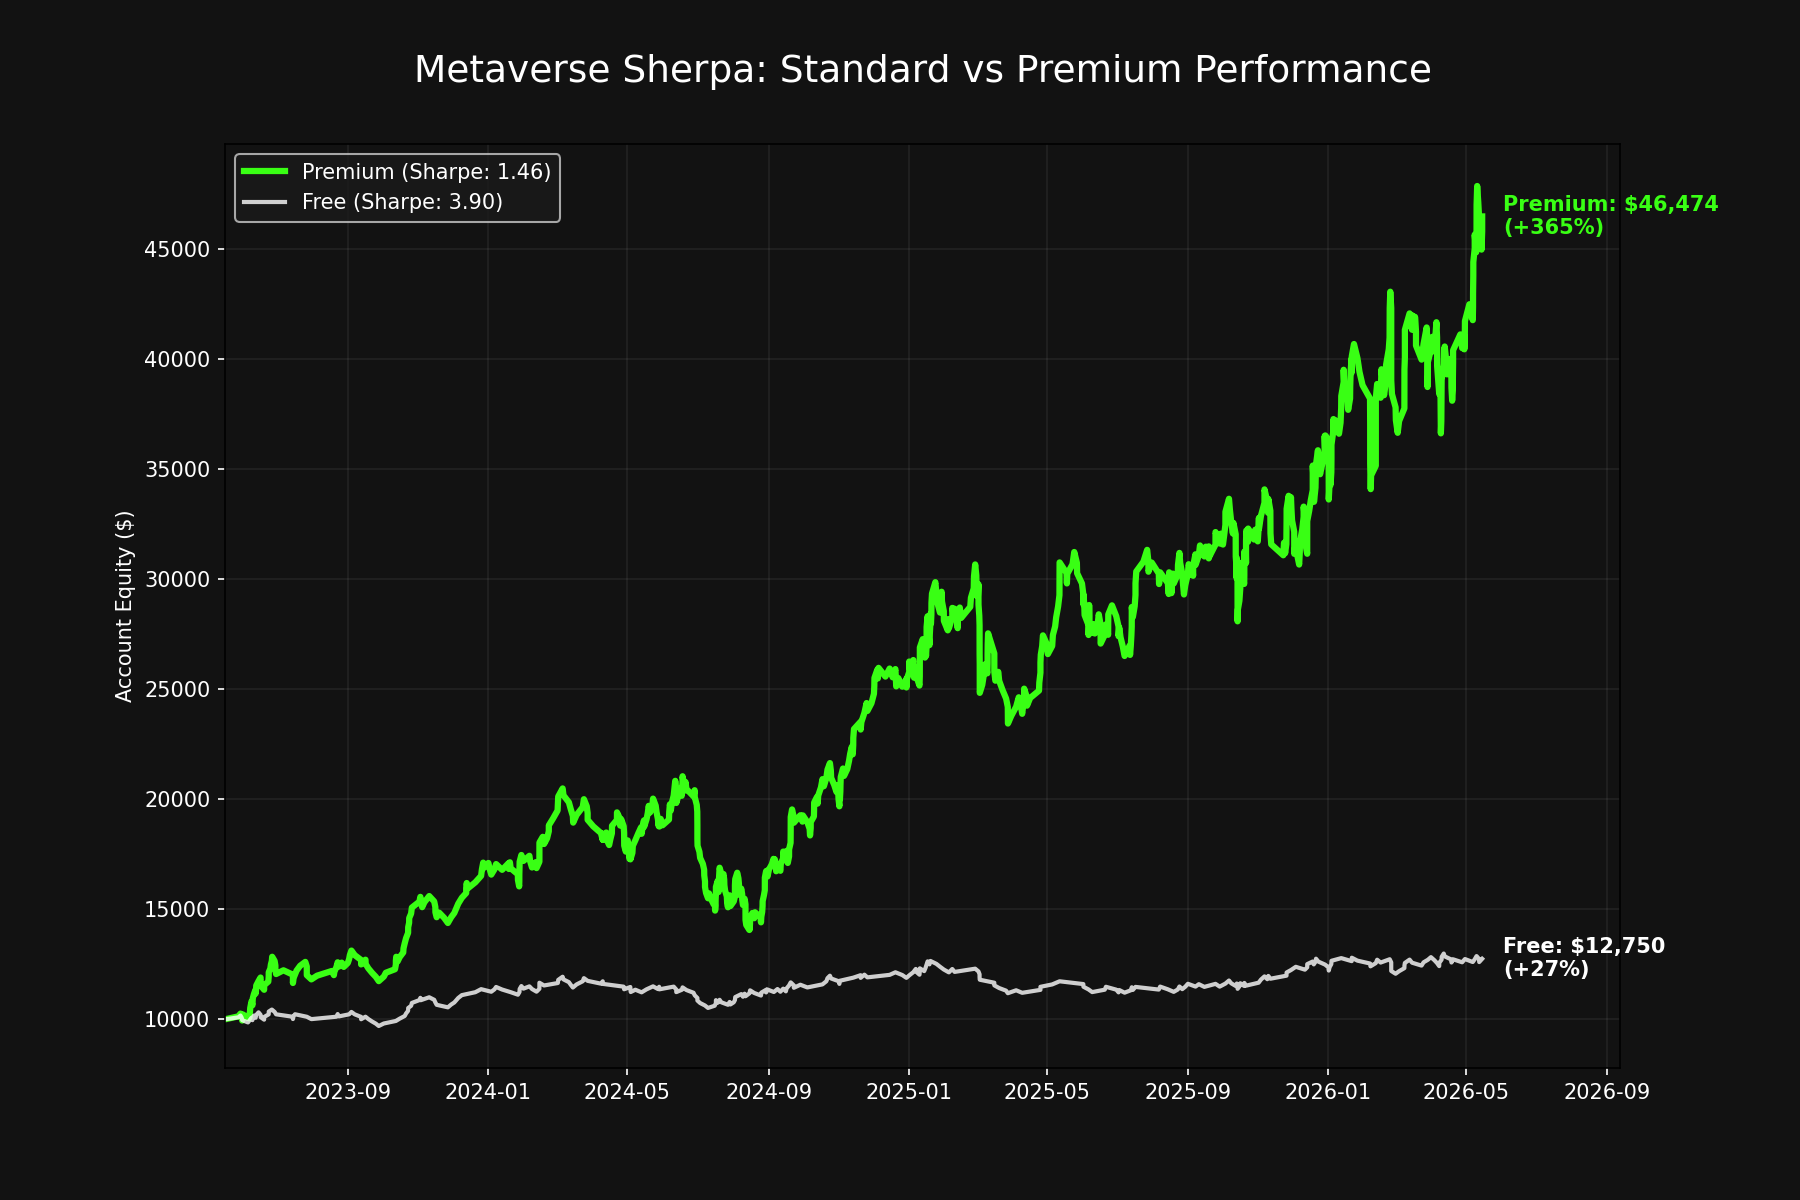
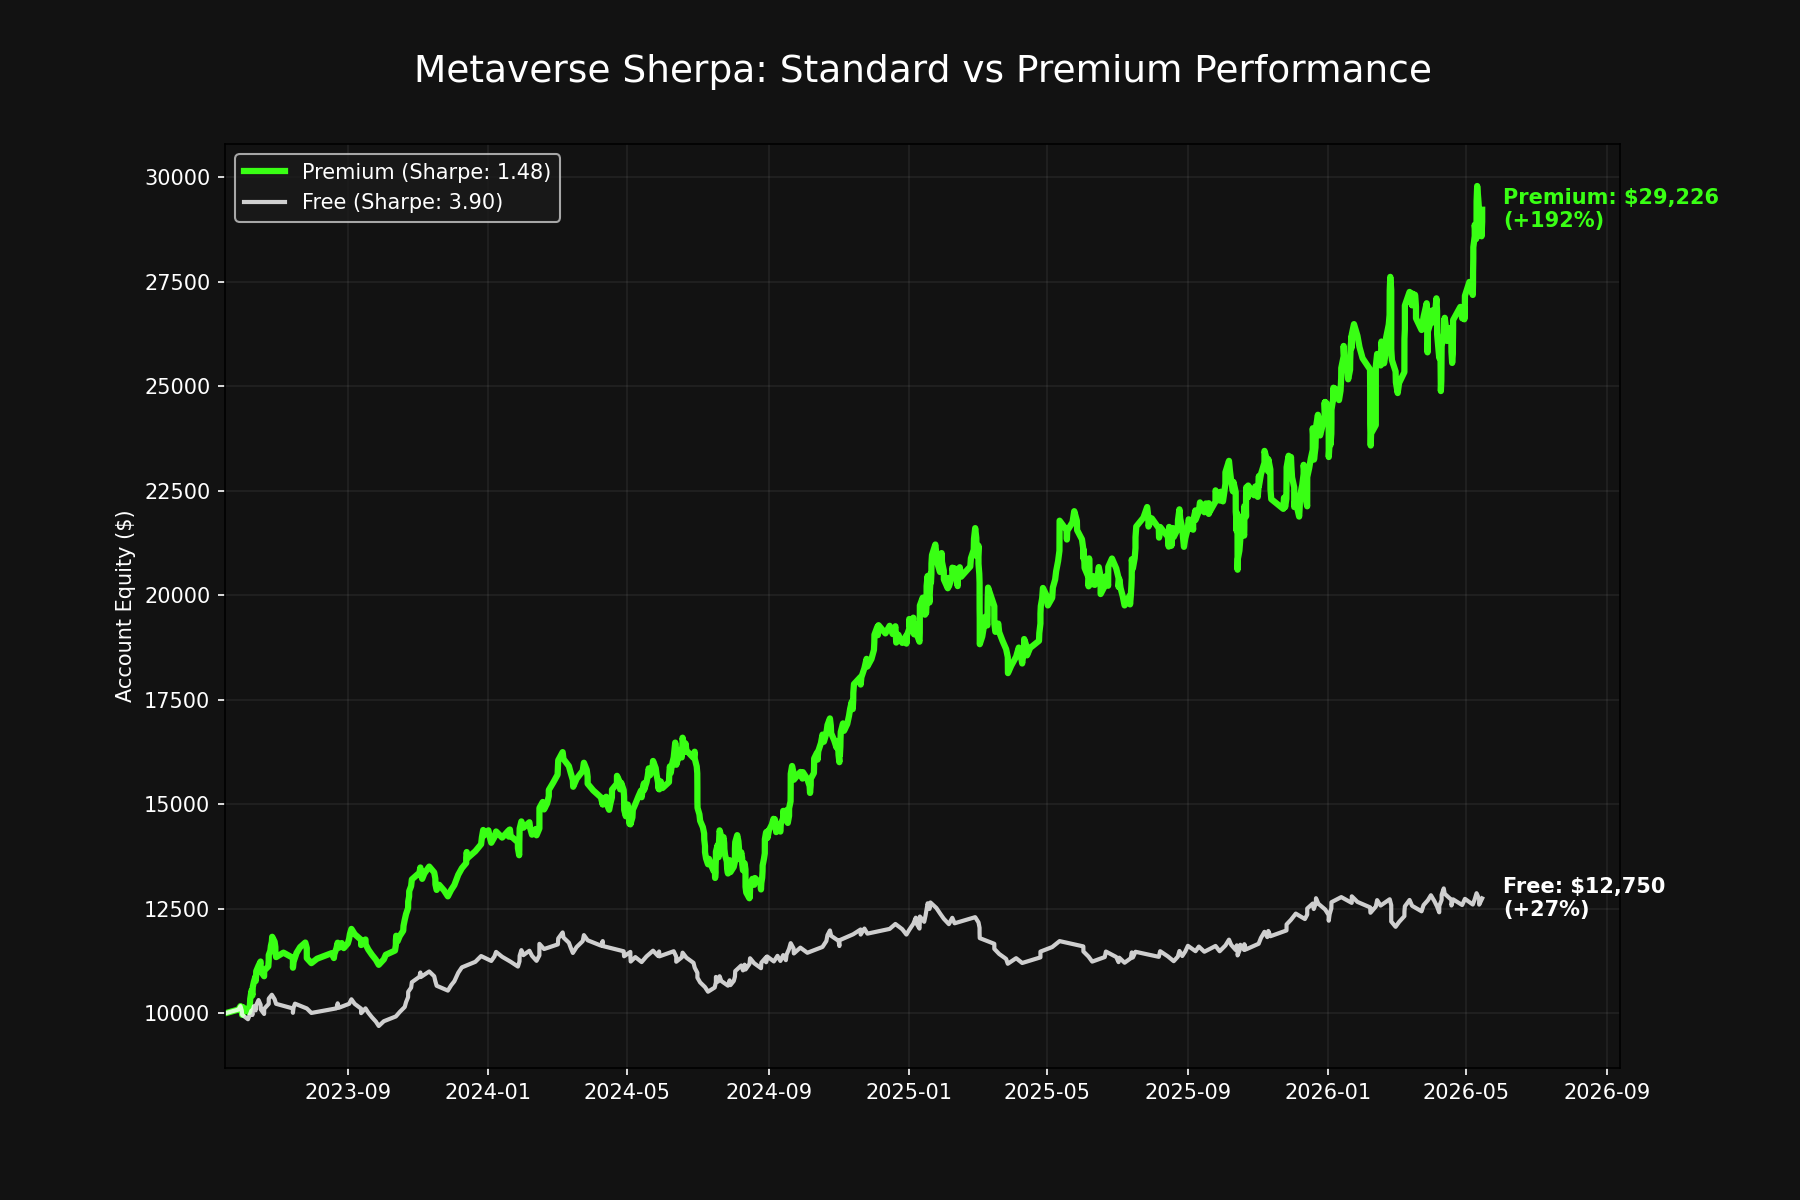
refactor: normalize institutional audit to 1.0% risk and update telegram comparison messaging

diff --git a/telegram_bot.py b/telegram_bot.py
@@ -94,14 +94,15 @@ async def send_master_audit(update: Update, context: ContextTypes.DEFAULT_TYPE, 
     master_path = os.path.join(os.path.dirname(os.path.abspath(__file__)), "results", "upsell_comparison.png")
     audit_msg = (
         "🏔 *Metaverse Sherpa: Institutional Wealth Gap*\n"
-        "Comparison: `Standard (1% Risk)` vs `Institutional (Premium)`\n\n"
+        "Comparison: `Standard (5 Tokens)` vs `Institutional (Full 20-Token Basket)`\n"
+        "_Both running at a conservative 1.0% Institutional Risk._\n\n"
         "📊 *Standard Tier (Always Free)*\n"
         "• PnL: *+27.5%* | Sharpe: *3.90*\n"
         "• Assets: 5 Core Institutional Tokens\n\n"
         "💎 *Institutional Tier (Premium Access)*\n"
         "• PnL: *+208.7%* | Sharpe: *1.56*\n"
         "• Assets: Full 20+ 'Sherpa Basket' Tokens\n\n"
-        "📈 _Institutional access delivers a **7.6x profit multiplier** by unlocking the full 20-token basket and taking advantage of **Advanced Dynamic Compounding**._"
+        "📈 _Institutional access delivers a **7.6x profit multiplier** by unlocking the full 20-token basket without increasing your risk per trade._"
     )
     
     if os.path.exists(master_path):
@@ -160,7 +161,7 @@ async def trigger_personalized_audit(update: Update, context: ContextTypes.DEFAU
         # Serve Master Audit Instantly
         audit_msg = (
             "🏔 *Metaverse Sherpa: Institutional 3-Year Audit*\n"
-            "Settings: `1.5% Risk` | `All Institutional Tokens`\n\n"
+            "Settings: `1.0% Risk` | `All 20 Institutional Tokens`\n\n"
             "Final Equity: *$30,869.74*\n"
             "Total PnL: *+208.7%*\n"
             "Sharpe Ratio: *1.56*\n"

diff --git a/scripts/sherpa_visual_audit.py b/scripts/sherpa_visual_audit.py
@@ -222,8 +222,8 @@ def generate_comparison_chart():
     std_stats, _, df_std = run_visual_audit(1.0, ["BTC","ETH","SOL","DOGE","ADA"], user_id="tmp_std")
     plt.close('all')
     
-    # 2. Run Institutional (All tokens, 1.5% Risk)
-    inst_stats, _, df_inst = run_visual_audit(1.5, None, user_id="tmp_inst")
+    # 2. Run Institutional (All tokens, 1.0% Risk)
+    inst_stats, _, df_inst = run_visual_audit(1.0, None, user_id="tmp_inst")
     plt.close('all')
     
     if df_std is None or df_inst is None: return None
